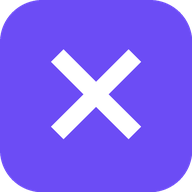
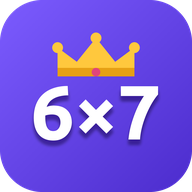
Ny ikon (6×7 med krona) och nytt namn: Gångerkungen

diff --git a/index.html b/index.html
@@ -4,7 +4,7 @@
   <meta charset="utf-8">
   <meta name="viewport" content="width=device-width, initial-scale=1, viewport-fit=cover, user-scalable=no">
   <meta name="theme-color" content="#6c4cf5">
-  <title>Gångertabellen</title>
+  <title>Gångerkungen</title>
   <link rel="manifest" href="manifest.webmanifest">
   <link rel="icon" href="icons/icon-192.png">
   <link rel="apple-touch-icon" href="icons/icon-192.png">
@@ -14,8 +14,8 @@
   <!-- START -->
   <section id="view-home" class="view active">
     <header class="home-head">
-      <div class="logo">×</div>
-      <h1>Gångertabellen</h1>
+      <img class="logo" src="icons/icon-192.png" alt="">
+      <h1>Gångerkungen</h1>
       <p class="sub" id="home-stars">⭐ 0 stjärnor</p>
     </header>
     <div class="menu">
@@ -25,7 +25,7 @@
       <button class="big c4" data-mode="hard">💪 Öva svåra tal</button>
       <button class="big c5" data-go="stats">📊 Min statistik</button>
     </div>
-    <button id="install-btn" class="big c3" hidden>📲 Installera appen</button>
+    <button id="install-btn" class="big install" hidden>📲 Installera appen</button>
     <p id="install-help" class="install-help" hidden>
       Tryck på <b>⋮</b> uppe till höger i Chrome och välj <b>Installera app</b> eller <b>Lägg till på startskärmen</b>.
       <br><small>Använder du Samsung Internet: tryck <b>☰</b> → <b>Lägg till sida på</b> → <b>Startskärm</b>.</small>

diff --git a/style.css b/style.css
@@ -52,10 +52,8 @@ button { font: inherit; color: inherit; border: 0; cursor: pointer; touch-action
 /* Home */
 .home-head { text-align: center; margin: 12px 0 4px; }
 .logo {
-  width: 84px; height: 84px; margin: 0 auto 8px;
-  border-radius: 26px; background: var(--purple); color: #fff;
-  font-size: 64px; line-height: 80px; font-weight: 900;
-  box-shadow: 0 6px 0 #4a2fc4;
+  display: block; width: 96px; height: 96px; margin: 0 auto 8px;
+  filter: drop-shadow(0 6px 0 rgba(74,47,196,.35));
 }
 h1 { margin: 0; font-size: 2.1rem; font-weight: 900; }
 h2 { margin: 0; font-size: 1.5rem; font-weight: 900; }
@@ -186,3 +184,8 @@ h2 { margin: 0; font-size: 1.5rem; font-weight: 900; }
   animation: fall linear forwards;
 }
 @keyframes fall { to { transform: translateY(110vh) rotate(720deg); } }
+
+.big.install {
+  background: var(--card); color: var(--purple);
+  border: 3px dashed var(--purple); box-shadow: none; font-size: 1.2rem; min-height: 56px;
+}

diff --git a/app.js b/app.js
@@ -357,7 +357,7 @@ if (typeof document !== 'undefined') {
     } else {
       stars = starsFor(g.correct, g.total);
       const secs = Math.round((Date.now() - g.start) / 1000);
-      title = ['Bra kämpat! 💪', 'Bra jobbat! 👍', 'Jättebra! 🌟', 'Perfekt! 🏆'][stars];
+      title = ['Bra kämpat! 💪', 'Bra jobbat! 👍', 'Jättebra! 🌟', 'Du är gångerkungen! 👑'][stars];
       text = g.correct + ' av ' + g.total + ' rätt direkt';
       extra = 'Tid: ' + Math.floor(secs / 60) + ':' + String(secs % 60).padStart(2, '0');
       if (stars === 3) confetti();

diff --git a/sw.js b/sw.js
@@ -1,4 +1,4 @@
-const CACHE = 'gangertabell-v2';
+const CACHE = 'gangertabell-v3';
 const FILES = ['./', 'index.html', 'style.css', 'app.js', 'manifest.webmanifest',
   'icons/icon-192.png', 'icons/icon-512.png', 'icons/maskable-512.png'];
 
